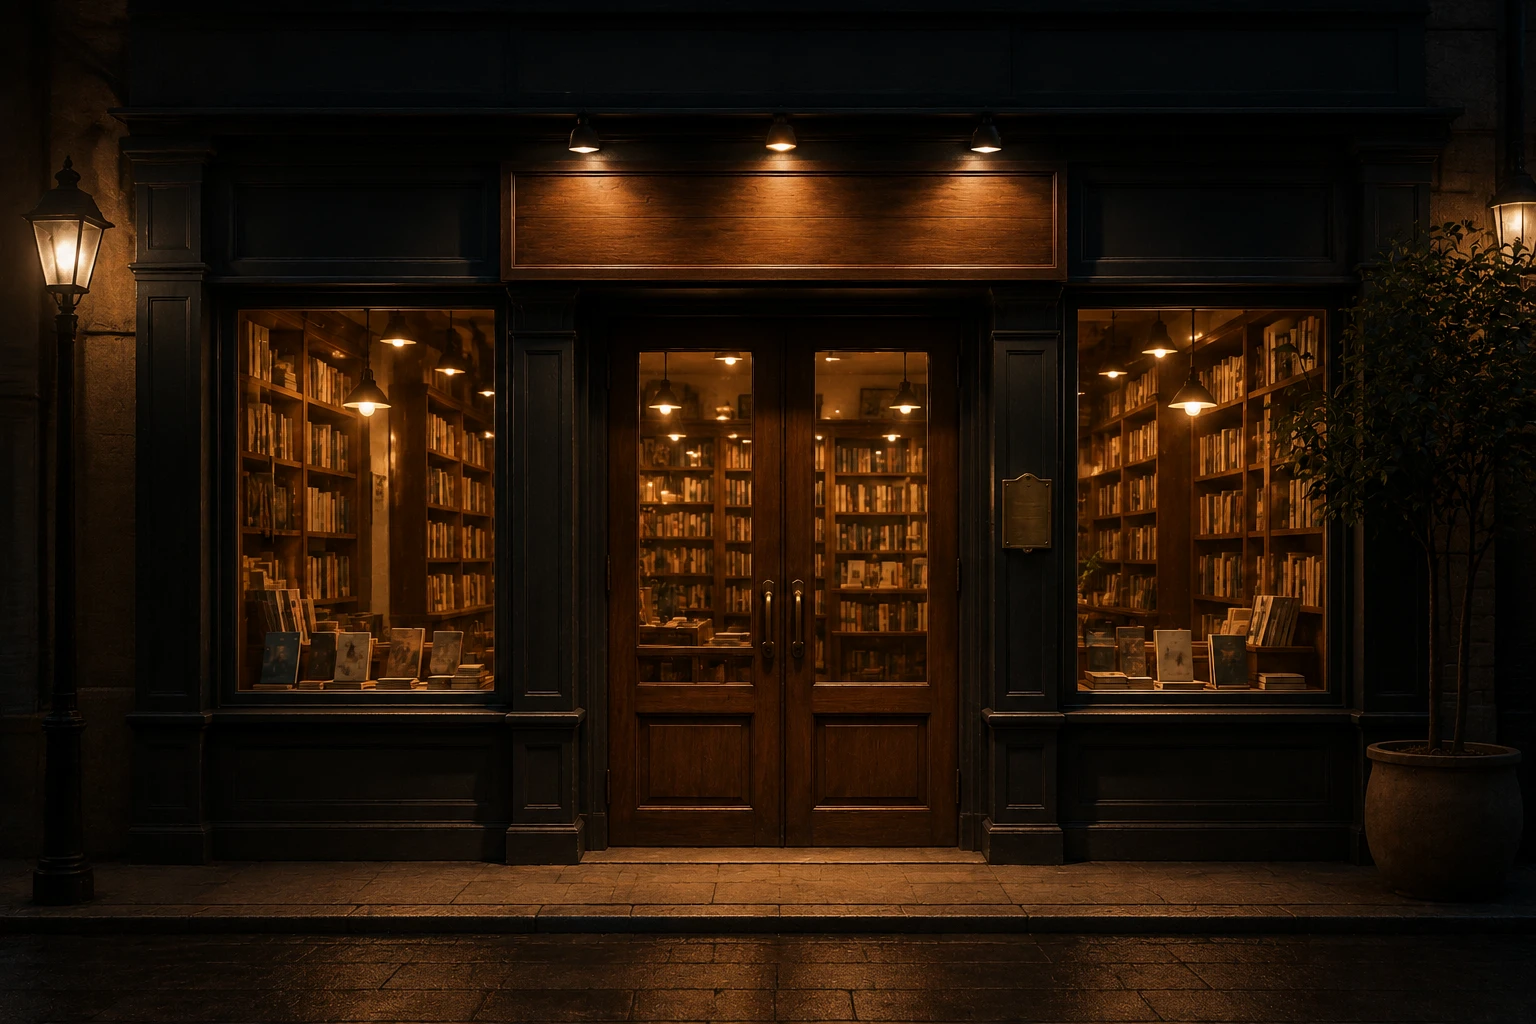
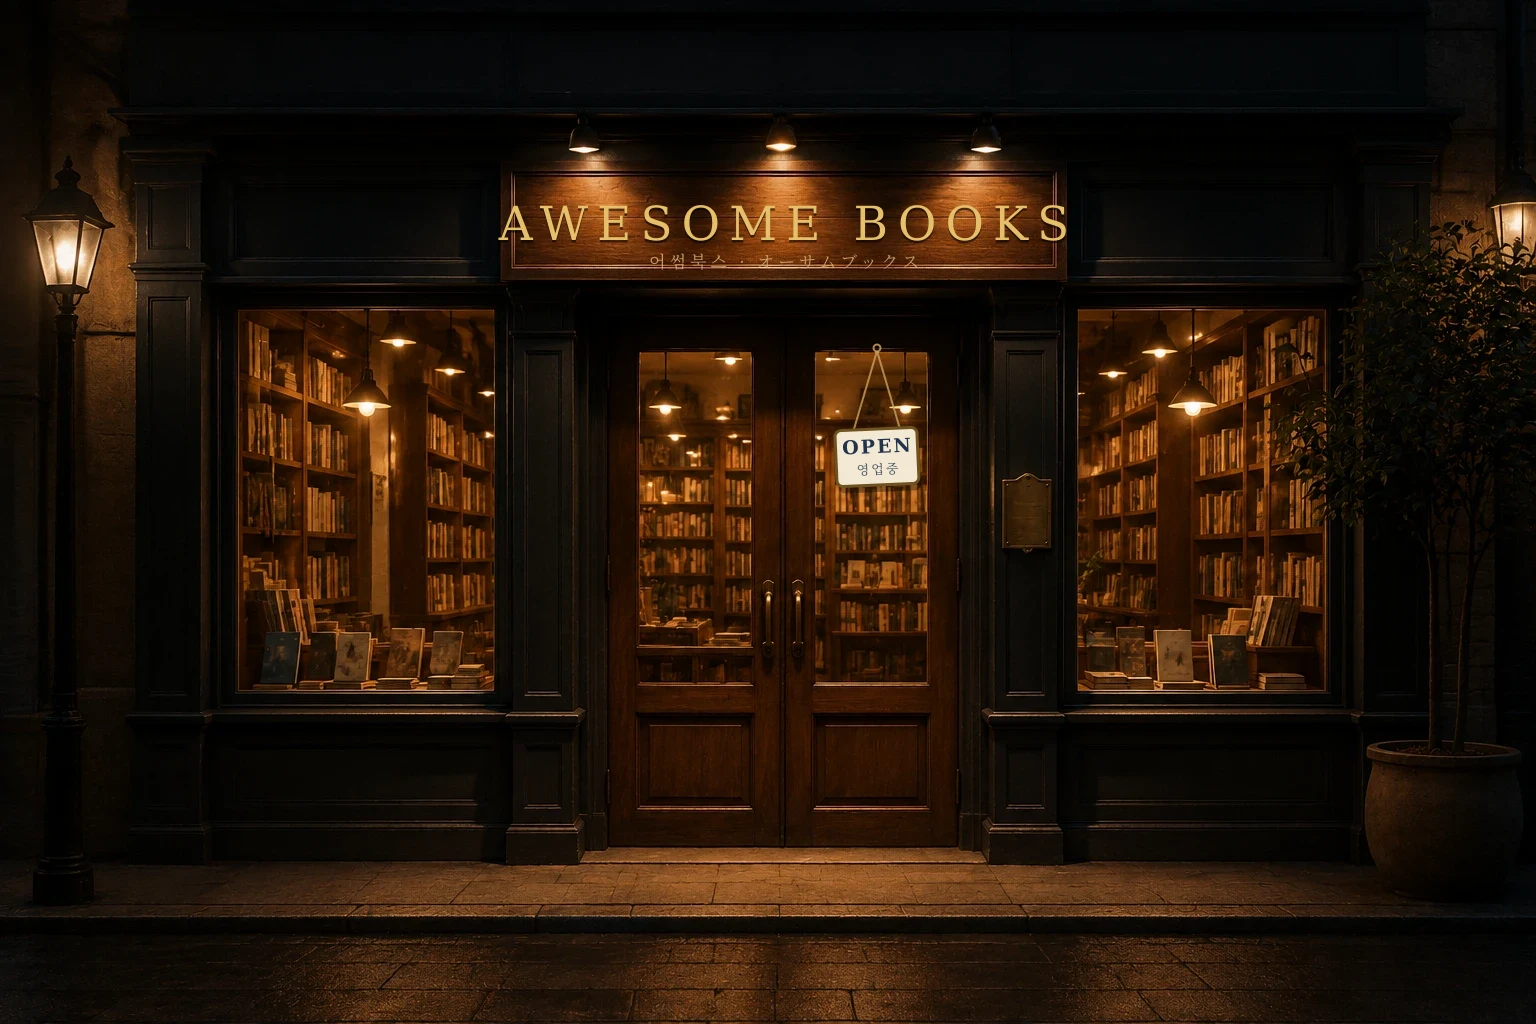
M16b: bake the shop signage into the facade renders
- "AWESOME BOOKS" gold serif lettering (with 어썸북스·オーサムブックス
  subtitle) engraved onto the header board of both facade images,
  with a soft drop shadow so it sits in the wood
- OPEN · 영업중 is now a cream sign hanging by cords on the right
  door glass of the closed facade — it swings away with the door
- removed the flat HTML text overlays (bw-fsign, bw-fplaque)

Claude-Session: https://claude.ai/code/session_012FmSVGPgURdiNnWVcdARF5

diff --git a/components/store/RoomStore.tsx b/components/store/RoomStore.tsx
@@ -614,11 +614,7 @@ export default function RoomStore() {
                     alt=""
                     ref={openRef}
                   />
-                  <div className="bw-fsign">
-                    <b>AWESOME BOOKS</b>
-                    <i>어썸북스 · オーサムブックス · Awesome Books</i>
-                  </div>
-                  <div className="bw-plaque bw-fplaque">OPEN · 영업중</div>
+                  {/* sign lettering + OPEN plaque are baked into the facade renders */}
                 </div>
                 <div className="bw-hint" ref={hintRef}>
                   {t('scrollHint')}
